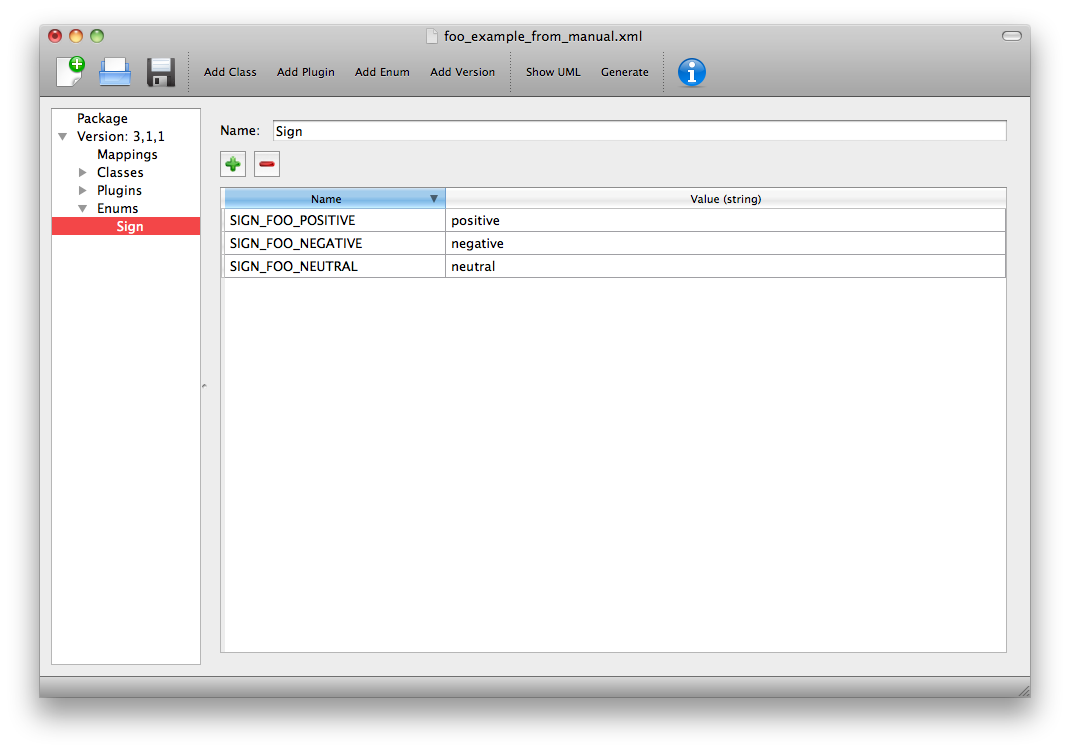
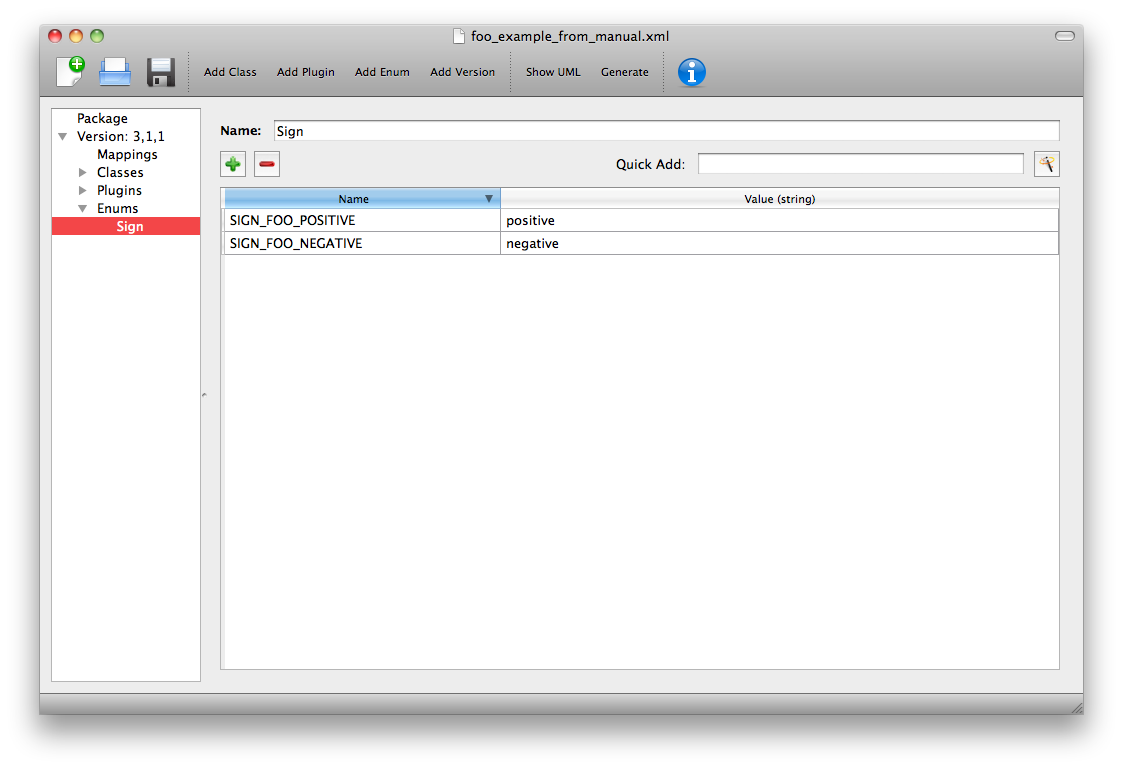
continued documentation

diff --git a/docs/src/source/defining_package.rst b/docs/src/source/defining_package.rst
@@ -371,8 +371,8 @@ elements** table for a class as shown in Figure :num:`fig-add-class`.
 These fields are identical to those in the **ListOf attributes** table 
 that appears when the **hasListOf** checkbox is checked.
 
-The **Required** field
-***********************
+The **Required** checkbox
+**************************
 
 The **Required** field indicates whether the attribute or child element
 is mandatory in terms of the SBML definition. 
@@ -513,7 +513,8 @@ The code generator produces the following code for an attribute of type 'array':
                       is a placeholder for the attribute name 
                       given to the array
 
-
+.. _enum:  
+       
 Attribute/child element type ‘enum’
 ^^^^^^^^^^^^^^^^^^^^^^^^^^^^^^^^^^^
 
@@ -1103,6 +1104,10 @@ reflect the package and the object being extended.
 
      libSBML class hierarchy showing ‘plugins’ to the Model class
 
+.. raw:: latex
+
+  \clearpage
+
 General plugin information
 ~~~~~~~~~~~~~~~~~~~~~~~~~~
 
@@ -1117,16 +1122,34 @@ Select ‘Add Plugin’ from the toolbar or the ‘Edit’ menu.
 
      The ‘Plugin’ sheet.
 
+The **ExtensionPoint** field
+****************************
+
 The **ExtensionPoint** field is used to specify the name of the element
 that is being extended. This will be the name of the class as used by
 libSBML.
 
+The **element from core** checkbox
+***********************************
+
 The **element from core** checkbox is used to specify whether the object
-being extended originates in SBML Core or another Level 3 package.
+being extended originates in SBML Core or another Level 3 package. It is checked 
+by default as to date the majority of SBML L3 packages have only extended 
+elements from SBML core. Unchecking the box reveals the **Package** and 
+**TypeCode** fields discussed below.
+
+The **hasAttributes** checkbox
+******************************
 
 The **hasAttributes** checkbox should be ticked if the package is going
 to extend an object with attributes rather than (or as well as)
 elements.
+
+The **requires additional code** checkbox
+******************************************
+
+.. todo::
+    Update additional code stuff
 
 As on other sheets the **requires additional code** checkbox can be used
 to indicate that there is additional code that will be required by the
@@ -1135,9 +1158,36 @@ additional code’ box reveals further boxes that can be used to specify
 the location of the additional code files. Deviser will incorporate this
 code ‘as-is’.
 
+The Defined Classes and Child Classes boxes
+********************************************
+
 The sheet for adding a plugin lists the classes that have already been
 specified (**Defined Classes**) and are ‘available’ to extend an object.
 These can be selected and moved into the **Child Classes** column.
+
+The **Up** and **Down** buttons can be used to reorder the classes that have
+been added as extensions for the given extension point. This will impact the 
+order in which Deviser deals with plugins and thus will affect typecode 
+enumerations and the order in which plugin objects are documented.
+
+The **Package** field
+*********************
+
+In cases where the **ExtensionPoint** does not originate in SBML L3 Core 
+Deviser needs to know in which L3 Package the class does originate.
+
+
+The **TypeCode** field
+**********************
+
+In cases where the **ExtensionPoint** does not originate in SBML L3 Core 
+Deviser also needs to know the TypeCode that libSBML has used for the 
+object being extended. It will be necessary for the user to consult libSBML 
+documentation (or code) to determine this value.
+
+.. raw:: latex
+
+  \clearpage
 
 Example 4 – Extending a core element
 ~~~~~~~~~~~~~~~~~~~~~~~~~~~~~~~~~~~~
@@ -1155,7 +1205,27 @@ note that the element is from core. Highlight FooKineticLaw in the
 **Defined Classes** column and use the arrows to move it to the **Child
 Classes** column. Essentially this is telling Deviser to generate the
 class FooReactionPlugin which will expect to have a data member of type
-FooKineticLaw class.
+FooKineticLaw class and the functions necessary to create and manipulate it 
+(as shown below).
+
+.. code-block:: C++
+
+    class LIBSBML_EXTERN FooReactionPlugin : public SBasePlugin
+    {
+    protected:
+      FooKineticLaw* mFooKineticLaw;
+    public:
+      const FooKineticLaw* getFooKineticLaw() const;
+      bool isSetFooKineticLaw() const;
+      int setFooKineticLaw(const FooKineticLaw* fooKineticLaw);
+      FooKineticLaw* createFooKineticLaw();
+      int unsetFooKineticLaw();
+      ...
+    }
+
+.. raw:: latex
+
+  \clearpage
 
 Example 5 – Extending a core element with attributes only
 ~~~~~~~~~~~~~~~~~~~~~~~~~~~~~~~~~~~~~~~~~~~~~~~~~~~~~~~~~
@@ -1166,20 +1236,30 @@ the **hasAttributes** checkbox.
 The table **Child attributes and child elements** appears. This is used
 for adding attributes and child elements as previously described. Here
 we specify that the Model will have a required boolean attribute
-‘useFoo’ from the foo package (Figure 21). Note that it is not necessary
+‘useFoo’ from the foo package (Figure :num:`fig-plugin-model`). Note that it is not necessary
 to specify child elements that originate in the package being defined
-i.e. those that have already been listed as **Child classes**.
+as these that have already been listed as **Child classes**.
+
+.. todo::
+   Change figure :num:`fig-plugin-model`
+
 
 .. _fig-plugin-model:
 .. figure:: ../screenshots/deviser-plugin-model.png
 
      Defining the extension of SBML Level 3 Core Model by package foo.
 
+.. raw:: latex
+
+  \clearpage
+
 Example 6 – Extending a non-core element
 ~~~~~~~~~~~~~~~~~~~~~~~~~~~~~~~~~~~~~~~~
 
 Here we declare that the **ExtensionPoint** is Transition from the
-Qualitative Models (qual) Package. The package foo adds the
+Qualitative Models (qual) Package. Unchecking the **element from core** checkbox
+reveals the **Package** and **TypeCode** fields which have been filled in as 
+appropriate. The package 'foo' adds the
 ListOfFooRules object to the Transition object.
 
 .. _fig-plugin-trans:
@@ -1187,11 +1267,49 @@ ListOfFooRules object to the Transition object.
 
      Defining the extension of SBML Level 3 Qual Transition by package foo.
 
+.. raw:: latex
+
+  \clearpage
+
 Add enum information
 --------------------
 
 SBML allows users to define data types as enumerations of allowed
-values. Here we describe how to specify these.
+values. Section :ref:`enum` describes using 'enum' as an attribute **Type**. 
+Here we describe how to fully specify the enumeration.
+
+General enum information
+~~~~~~~~~~~~~~~~~~~~~~~~~
+
+The Name field
+***************
+
+The **Name** field is used to declare the name of the enumeration, in
+this case Sign. Note that when generating code Deviser will append an
+‘\_t’ to this name if it does not already have a name of the format Name\_t.
+
+The enumeration table
+**********************
+The table is used to specify the individual allowed values of the
+enumeration.
+
+The **Name** field
+^^^^^^^^^^^^^^^^^^^
+The **Name** field is the enumeration value that will appear in the
+enumeration itself.
+
+The **Value** field
+^^^^^^^^^^^^^^^^^^^
+The **Value** field gives the corresponding string value of that member
+of the enumeration.
+
+The Quick Add field
+*******************
+
+This field can be used to facilitate creating the enumeration Name-Value pairs. 
+Enter the string value in this field and press the 'wand'. The string will be
+added as an enumeration **Value** with a **Name** of PACKAGE\_ENUM\_VALUE.
+
 
 Example 7 – Adding an enumeration
 ~~~~~~~~~~~~~~~~~~~~~~~~~~~~~~~~~
@@ -1210,29 +1328,26 @@ enumeration type ‘Sign’ as shown in Figure :num:`fig-foo-extra`.
 Then it is necessary to specify the enumeration itself. Use the **Add
 Enum** button from the toolbar or Edit menu.
 
-The **Name** field is used to declare the name of the enumeration, in
-this case Sign. Note that when generating code Deviser will append an
-‘\_t’ to this name.
+The **Name** filed is Sign (which corresponds to the **Element** field in 
+the attribute table). Figure :num:`fig-enum-sign` shows that we have specified 
+that the enumeration sign has three
+possible values: ‘positive’, ‘negative’ and ‘neutral. Note we used the 
+**Quick Add** field to enter 'neutral' which resulted in the enumeration
+FOO\_SIGN\_NEUTRAL.
 
-The table is used to specify the individual allowed values of the
-enumeration.
-
-The **Name** field is the enumeration value that will appear in the
-enumeration itself.
-
-The **Value** field gives the corresponding string value of that member
-of the enumeration.
-
-Here (Figure :num:`fig-enum-sign`) we have specified that the enumeration sign has three
-possible values: ‘positive’, ‘negative’ and ‘neutral. Note the names
-used reflect the individual values and the package in which they
-originate. It is not necessary to add a default or “unknown” value –
+It is not necessary to add 
+a default or “unknown” value –
 Deviser will do this when generating code.
 
+
 .. _fig-enum-sign:
-.. figure:: ../screenshots/deviser-enum-sign.png
+.. figure:: ../screenshots/deviser-enum-sign-2.png
 
      Defining the Sign enumeration.
+
+.. raw:: latex
+
+  \clearpage
 
 Mappings
 --------
@@ -1256,13 +1371,17 @@ originate in the ‘qual’ package, so this information is added. Note on
 this sheet only the **Package** column can be edited. The **Name**
 column is populated by the tool.
 
-Results
--------
+.. raw:: latex
+
+  \clearpage
+
+Overview of a defined package
+------------------------------
 
 Select ‘Version’ from the tree in the panel on the left hand side. Now
 that all the classes have been defined these are listed here (see Figure
 :num:`fig-full-decsr`) and the ordering can be adjusted. The order will dictate the order
-of the relevant section in the TeX documents.
+of the relevant sections in the TeX documents.
 
 .. _fig-full-decsr:
 .. figure:: ../screenshots/deviser-full-decsr.png
@@ -1277,21 +1396,23 @@ using Deviser Edit or with any XML Editor. The full description of the
 Imaginary Foo Package used in the Examples can be seen in Appendix A or
 is available in the deviser/samples directory.
 
+.. raw:: latex
+
+  \clearpage
+
 Validating the description
 ~~~~~~~~~~~~~~~~~~~~~~~~~~
-
-NOTE TO LUCIAN: We have not yet finished implementing all the
-validation. The plan is to provide a list here of all the possible
-errors and warnings that might be reported.
 
 There are two further options on the Edit menu that have not yet been
 discussed.
 
+The Validate Description option
+*******************************
+ 
 **Validate Description** runs a series of internal checks on the
-information provided and prompts the user to fill in any required
-fields.
-
-A pop-up window (Figure :num:`fig-validation`) will appear with either an error message or
+information provided and produces a list of Errors and Warnings.
+When invoked a pop-up window (Figure :num:`fig-validation`) will appear with 
+either a list of errors and/or warnings or
 a confirmation that everything is consistent. The Copy button can be
 used to copy the contents of the report to the clipboard and thus makes
 them available for pasting elsewhere.
@@ -1301,7 +1422,17 @@ them available for pasting elsewhere.
 
      Validating the package description
 
+
+
+:ref:`validation` gives a list of the errors and warnings that may be issued 
+by Deviser Edit with references to teh relevant sections in teh main text. 
+
+The **Fix Errors** option
+**************************
+
 **Fix Errors** provides a direct way of validating and then correcting
-any inconsistencies. It is advisable to use **Validate Description**
+any inconsistencies. Deviser Edit will run the validation checks and then 
+automatically correct any issues, where this is possible. 
+It is advisable to use **Validate Description**
 following **Fix Errors** as some errors cannot be automatically fixed.
 

diff --git a/docs/src/source/index.rst b/docs/src/source/index.rst
@@ -19,6 +19,7 @@ Contents:
    appendix_b_types
    appendix_c_adding_type
    appendix_d_licensing
+   appendix_e_validation
    
    references
 

diff --git a/docs/src/source/appendix_e_validation.rst b/docs/src/source/appendix_e_validation.rst
@@ -1,0 +1,6 @@
+.. _validation:
+
+Appendix E: Validation
+======================
+
+List validation rules
